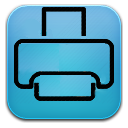
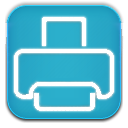
Fixed UI bugs; Restyle; Branding

diff --git a/style.css b/style.css
@@ -25,12 +25,19 @@ limitations under the License.
 	--settingsBgColor: #f8f9fb;
 	--signBoxBgColor: transparent;
 
+	/*--bgLock: url(images/img_lock.png);*/
+
 	--mainFontColor: #222;
 	--errFontColor: #b11;
 	--bgFontColor: #fff;
 
 	--colorBorderDelimiter: #eee;
 }
+
+#tabs {
+	background: white url(images/img_lock.png);
+}
+
 html {
 	font-size: 100%;
 	height: auto;
@@ -46,6 +53,7 @@ body {
 	border-radius: 2px;
 	text-align: center;
 	box-sizing: border-box;
+	background: url(images/img_lock.png);
 }
 
 a {
@@ -78,7 +86,7 @@ a {
 	padding: 20px;
 	line-height: normal;
 	vertical-align: middle;
-	background-color: var(--signBoxBgColor);
+	background: var(--signBoxBgColor);
 	border: 2px solid var(--btnBgColor);
 	border-radius: 4px;
 	margin-bottom: 12px;
@@ -98,7 +106,7 @@ a {
 	height: 2.2rem;
 	font-size: 1rem;
 	outline: none;
-	background-color: #ffffff;
+	background: #ffffff;
 	border: 1px solid #cccccc;
 	padding-left: 6px;
 	color: #555555;
@@ -123,7 +131,7 @@ a {
 	display: none;
 }
 .wrap_btn {
-	background-color: var(--btnBgColor);
+	background: var(--btnBgColor);
 	color: var(--bgFontColor);
 	border: 0;
 	display: inline-block;
@@ -136,10 +144,10 @@ a {
 	outline: none;
 }
 .wrap_btn:hover {
-	background-color: var(--btnBgColorHover);
+	background: var(--btnBgColorHover);
 }
 .wrap_btn:active {
-	background-color: var(--btnBgColorActive);
+	background: var(--btnBgColorActive);
 }
 .about,
 .about:link,
@@ -198,7 +206,7 @@ a {
 	border-bottom: 1px solid #9f9f9f;
 	line-height: 2rem;
 	margin: 0;
-	background-color: rgba(0, 0, 0, 0.7);
+	background: rgba(0, 0, 0, 0.7);
 	cursor: pointer;
 	box-sizing: border-box;
 	transition: all ease 0.3s;
@@ -209,13 +217,13 @@ a {
 .language__li-active {
 	color: #eee;
 	border-bottom: 1px solid #ccc;
-	background-color: rgba(0, 0, 0, 0.8);
+	background: rgba(0, 0, 0, 0.8);
 	transition: all ease 0.3s;
 }
 .language__li:hover {
 	color: var(--bgFontColor);
 	border-bottom: 1px solid #d7d7d7;
-	background-color: rgba(0, 0, 0, 0.86);
+	background: rgba(0, 0, 0, 0.86);
 	transition: all ease 0.3s;
 }
 
@@ -262,10 +270,10 @@ a {
 	margin: auto;
 }
 .about__button:hover {
-	background-color: var(--btnBgColorHover);
+	background: var(--btnBgColorHover);
 }
 .about__button:active {
-	background-color: var(--btnBgColorActive);
+	background: var(--btnBgColorActive);
 }
 
 
@@ -274,7 +282,8 @@ a {
 	font-size: 0.72rem;
 	padding: 2px;
 	width: 100%;
-	overflow: auto;
+	overflow-y: auto;
+	overflow-x: hidden;
 	box-sizing: border-box;
 	border-collapse: collapse;
 }
@@ -284,7 +293,7 @@ a {
 	box-sizing: border-box;
 }
 .mes__row:hover {
-	background-color: var(--btnBgColorHover);
+	background: var(--btnBgColor);
 }
 .mes__col {
 	padding: 12px 4px;
@@ -319,6 +328,19 @@ a {
 	text-align: right;
 	padding-right: 12px;
 }
+#messages .mes__col-1 {
+	width: 66%;
+	padding-left: 12px;
+}
+#messages .mes__col-2 {
+	width: 16%;
+	text-align: center;
+}
+#messages .mes__col-3 {
+	width: 18%;
+	text-align: right;
+	padding-right: 12px;
+}
 .mes__img {
 	width: 100%;
 	margin-bottom: 3px;
@@ -337,8 +359,8 @@ a {
 	box-sizing: border-box;
 }
 .back {
-	margin: 10px 10px 10px 0px;
-	background-color: var(--btnBgColor);
+	margin-top: 10px;
+	background: var(--btnBgColor);
 	color: var(--bgFontColor);
 	border: 0;
 	display: inline-block;
@@ -350,7 +372,7 @@ a {
 	box-sizing: border-box;
 }
 .back:hover {
-	background-color: var(--btnBgColorHover);
+	background: var(--btnBgColorHover);
 }
 
 .numbers {
@@ -376,34 +398,33 @@ a {
 	-moz-user-select: none;
 	-ms-user-select: none;
 	user-select: none;
-	background-image: none;
 	border-radius: 0px;
 	color: var(--bgFontColor);
 	margin-bottom: 1px;
 	box-sizing: border-box;
-	background-color: var(--btnBgColor);
+	background: var(--btnBgColor);
 	border: 0px;
 }
 .btn_added:hover {
-	background-color: var(--btnBgColorHover);
+	background: var(--btnBgColorHover);
 }
 .btn_added:active {
-	background-color: var(--btnBgColorActive);
+	background: var(--btnBgColorActive);
 }
 #btn12 {
-	background-color: var(--btnSaveBgColor);
+	background: var(--btnSaveBgColor);
 }
 #btn12:hover {
-	background-color: var(--btnSaveBgColorHover);
+	background: var(--btnSaveBgColorHover);
 }
 #btn12:active {
-	background-color: var(--btnSaveBgColorActive);
+	background: var(--btnSaveBgColorActive);
 }
 .btn-call {
 	width: 100%;
 	height: 100%;
 	display: inline-block;
-	background-image: url(images/phone.png);
+	background: url(images/phone.png);
 	background-position: center;
 	background-repeat: no-repeat;
 	background-size: 24%;
@@ -420,7 +441,7 @@ a {
 
 #toolbar {
 	position: relative;
-	background-color: var(--btnBgColor);
+	background: var(--btnBgColor);
 	text-align: right;
 	width: 100%;
 	display: inline-block;
@@ -458,7 +479,7 @@ a {
 
 
 #signout_link_tabs {
-	background-color: var(--btnBgColor);
+	background: var(--btnBgColor);
 	color: var(--bgFontColor);
 	height: 28px;
 	text-align: left;
@@ -496,13 +517,13 @@ a {
 	cursor: pointer;
 	box-sizing: border-box;
 	outline: none;
-	background-color: var(--btnBgColor);
+	background: var(--btnBgColor);
 }
 .sendfax__btn:hover {
-	background-color: var(--btnBgColorHover);
+	background: var(--btnBgColorHover);
 }
 .sendfax__btn:active {
-	background-color: var(--btnBgColorActive);
+	background: var(--btnBgColorActive);
 }
 
 button {
@@ -603,7 +624,7 @@ ul.ui-autocomplete {
 }
 
 #tabs li {
-	background-color: #ffffff;
+	background: #ffffff;
 }
 
 #clicktodial {
@@ -650,7 +671,7 @@ ul.ui-autocomplete {
 	font-weight: bold;
 }
 .tabled_tab tr:hover {
-	background-color: var(--btnBgColor);
+	background: var(--btnBgColor);
 }
 .tabled_tab tr td:first-child {
 	padding-left: 12px;
@@ -701,10 +722,10 @@ ul.ui-autocomplete {
 	cursor: pointer;
 }
 #phonebookentries tr:hover {
-	background-color: var(--btnBgColor);
+	background: var(--btnBgColor);
 }
 #phonebookentries tr:first-child:hover {
-	background-color: transparent;
+	background: transparent;
 	cursor: auto;
 }
 /* ---- end Phone Book ------  */
@@ -778,6 +799,7 @@ ul.ui-autocomplete {
 	min-width: 640px;
 	text-align: center;
 	position: absolute;
+	background: url(images/img_lock.png);
 	top: 0;
 	left: 0;
 	bottom: 0;
@@ -812,7 +834,7 @@ ul.ui-autocomplete {
 	display: inline-block;
 	max-width: 680px;
 	width: 92%;
-	background-color: var(--settingsBgColor);
+	background: var(--settingsBgColor);
 	color: var(--mainFontColor);
 	margin-top: 60px;
 	margin-bottom: 60px;
@@ -855,7 +877,7 @@ ul.ui-autocomplete {
 	height: 2rem;
 	font-size: 1rem;
 	outline: none;
-	background-color: #ffffff;
+	background: #ffffff;
 	border: 1px solid #cccccc;
 	padding-left: 6px;
 	color: #555555;
@@ -890,22 +912,22 @@ ul.ui-autocomplete {
 	outline: none;
 }
 .settings__btn-reset {
-	background-color: var(--btnBgColor);
+	background: var(--btnBgColor);
 }
 .settings__btn-reset:hover {
-	background-color: var(--btnBgColorHover);
+	background: var(--btnBgColorHover);
 }
 .settings__btn-reset:active {
-	background-color: var(--btnBgColorActive);
+	background: var(--btnBgColorActive);
 }
 .settings__btn-save {
-	background-color: var(--btnSaveBgColor);
+	background: var(--btnSaveBgColor);
 }
 .settings__btn-save:hover {
-	background-color: var(--btnSaveBgColorHover);
+	background: var(--btnSaveBgColorHover);
 }
 .settings__btn-save:active {
-	background-color: var(--btnSaveBgColorActive);
+	background: var(--btnSaveBgColorActive);
 }
 #clean_history_btn {
 	margin: 16px;

diff --git a/dotabs.js b/dotabs.js
@@ -312,7 +312,7 @@ function create_default_history_row(type, name, number, time){
 	table.rows[pos].cells[0].childNodes[0].src = "images/" + type + ".png";
 	table.rows[pos].cells[0].childNodes[0].style.height = "24px";
 	table.rows[pos].cells[0].childNodes[0].style.width = "24px";
-	
+
 	table.rows[pos].cells[1].appendChild(document.createElement("p"));
 	table.rows[pos].cells[1].childNodes[0].appendChild(document.createTextNode(name));
 	table.rows[pos].cells[1].appendChild(document.createElement("span"));
@@ -320,7 +320,7 @@ function create_default_history_row(type, name, number, time){
 
 	table.rows[pos].cells[2].appendChild(document.createTextNode(time));
 	// for ( var i = 0; i < history.length; i++) {
-		
+
 	// 	var row = "<tr id='calllogentry" + i + "_" + list[i].number + "'>";
 	// 	if (list[i].type == "outgoing") {
 	// 		row += "<td><img src='images/outcoming.png '/></td>";
@@ -499,7 +499,8 @@ function create_box_row(name, phone, count, is_new, id){
 	img = $("<img class='mes__img' />");
 
 	$(p1).text(name).attr("title", name);
-	$(img).attr("src", "images/msg_" + (is_new ? "new.jpg" : (count > 0 ? "not_empty.png" : "empty.png")));
+	$(img).attr("src", "images/msg_" + (is_new ? "new.jpg" : (count > 0 ? "not_empty.png" : "empty.png")))
+			.attr("title", (is_new ? "New" : (count > 0 ? "Not empty" : "Empty")));
 	$(col1).text(phone).attr("title", phone);
 	$(col1).append(p1);
 	$(col2).text(count);
